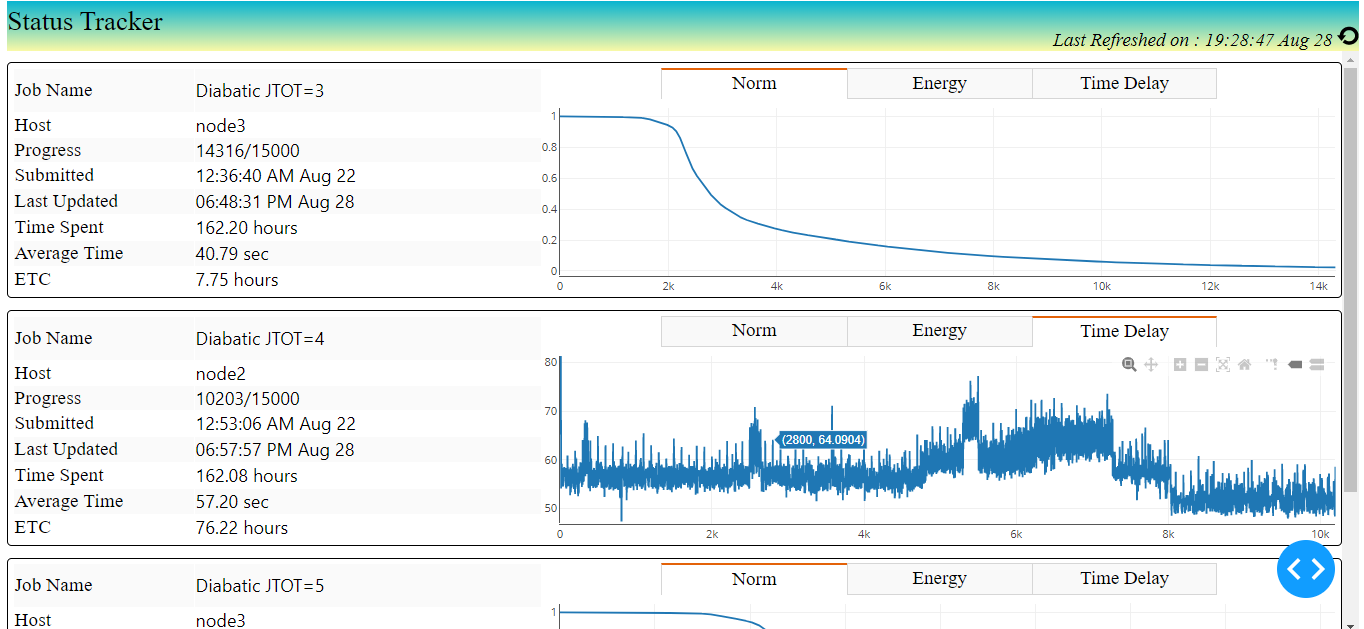
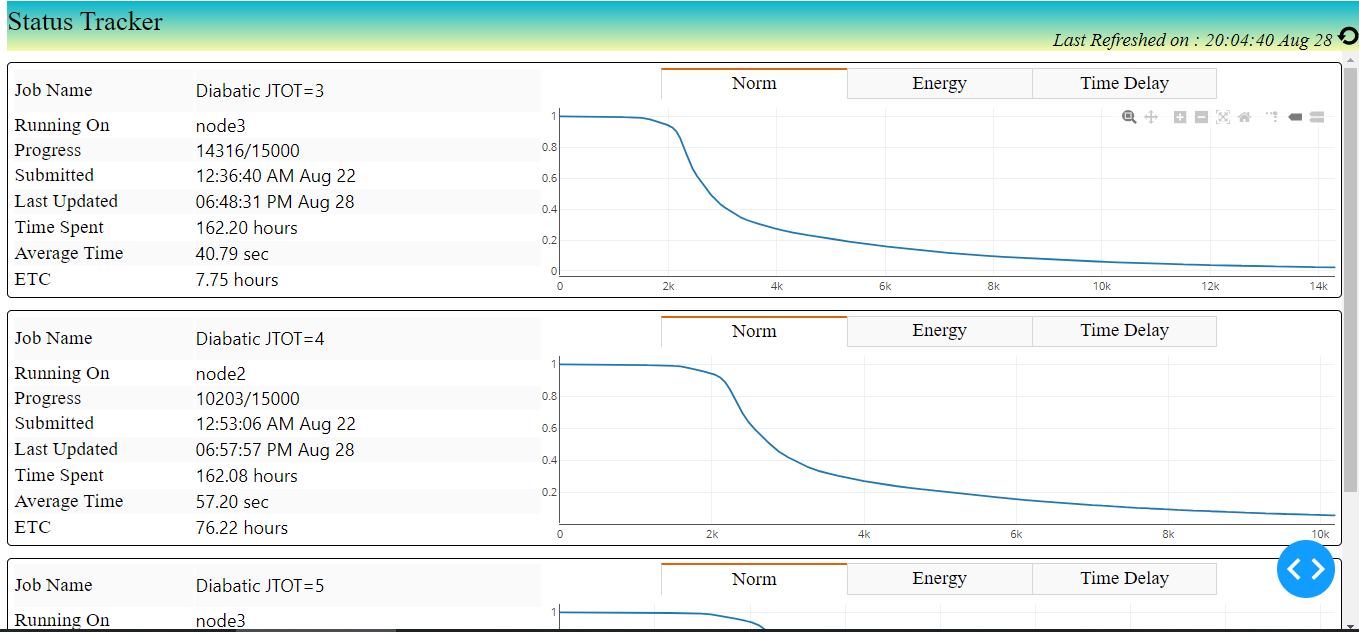
update

diff --git a/app.py b/app.py
@@ -169,7 +169,7 @@ def getThisJobChild(index): # generates children for this particular job
                     html.Td(tInfo["name"])
                 ]),
                 html.Tr([
-                    html.Td("Host"),
+                    html.Td("Running On"),
                     html.Td(tInfo["HostName"],title=tInfo["location"])
                 ]),
                 html.Tr([
